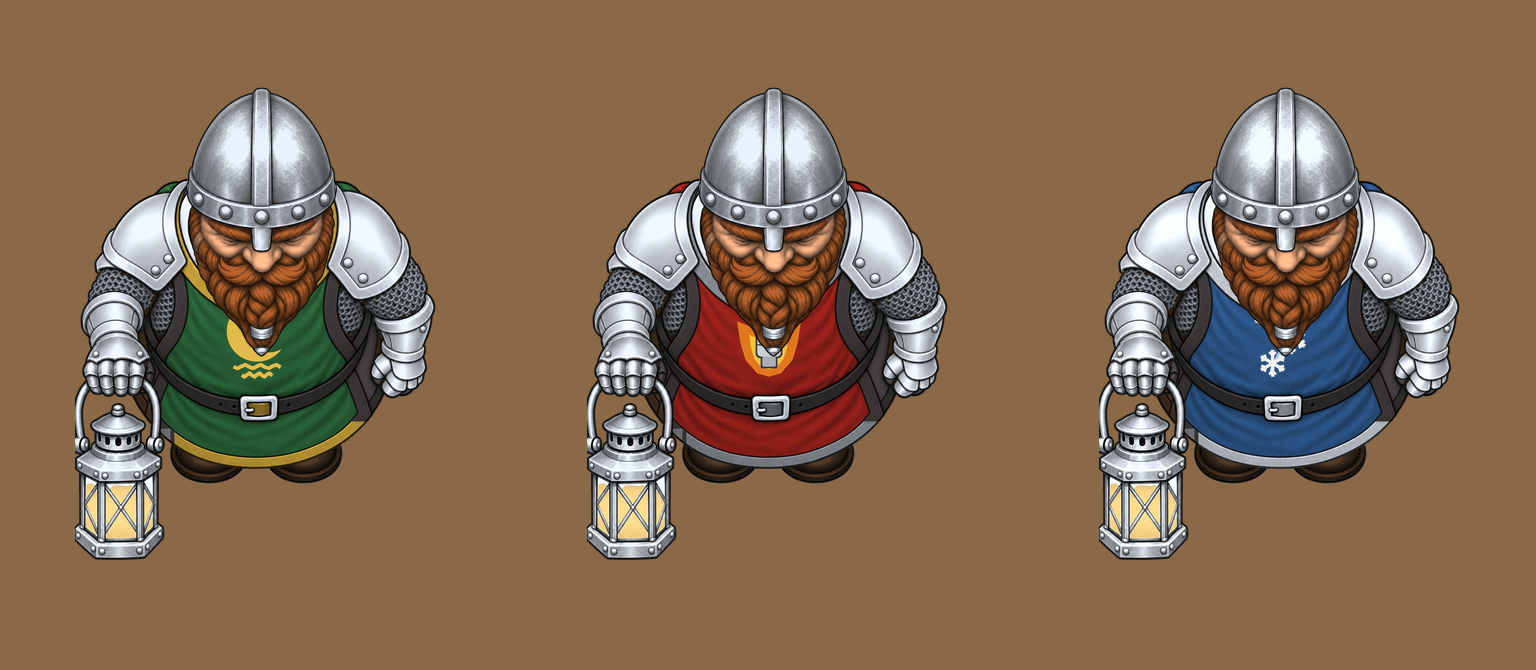
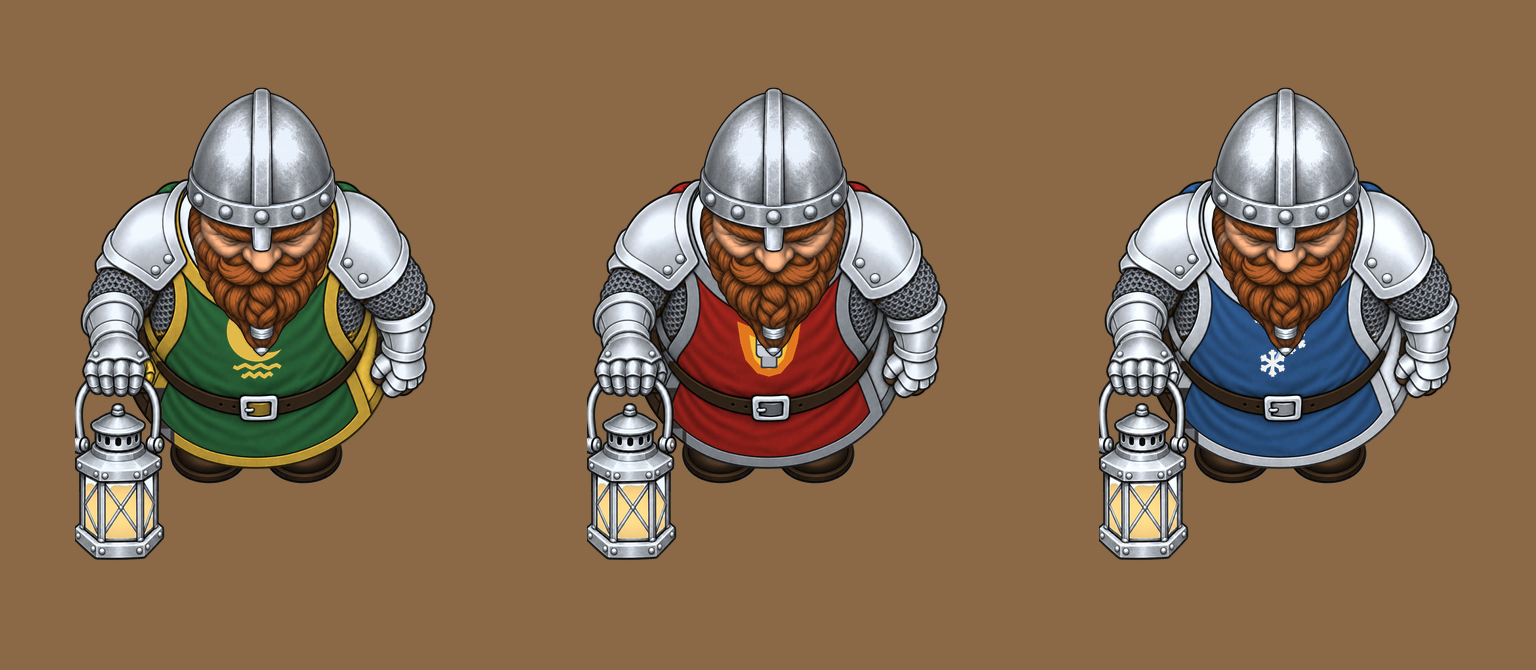
Kit personnages : patrouille de nuit validée (lisières du tabard colorées, ceinture en cuir)
Claude-Session: https://claude.ai/code/session_01F13QTHtRPRAg87rG7j2jCn

diff --git a/kit-personnages/outils/lanterne.py b/kit-personnages/outils/lanterne.py
@@ -101,6 +101,10 @@ def garde_reach(tab,bord,metal='#aeb4bc',glow='#ffd98a',emb=None,H=700,**kw):
         g=ndi.binary_opening((lum>212)&(a[...,3]>60)&(xx<420)&(yy>1150),iterations=3);gc,gk=ndi.label(g);g=np.isin(gc,[i+1 for i,v in enumerate(ndi.sum(g,gc,range(1,gk+1))) if v>420]);lab[ndi.binary_dilation(g,iterations=3)&(lum>190)&(xx<420)&(yy>1150)]=30      # seulement les vitres, pas les rivets
         gy,gx=np.where(lab==30);box=(xx<gx.max()+75)&(yy>gy.min()-330);lab[box&np.isin(lab,(6,15,16,9))&(lum>120)]=4          # la lanterne et le gantelet : métal
         lab[np.isin(lab,(6,16))&(yy>1090)&~box]=9
+        m16=(lab==16)&~box;dk=(ndi.gaussian_filter(lum,1.0)<grd.bodyseg.LT);c16,k16=ndi.label(ndi.binary_erosion(m16&~ndi.binary_dilation(dk,iterations=2),iterations=2));kind16=np.zeros(k16+1,int)
+        for i,sl in enumerate(ndi.find_objects(c16)):
+            h16=sl[0].stop-sl[0].start;w16=sl[1].stop-sl[1].start;kind16[i+1]=6 if (w16>1.3*h16 and sl[0].start>820 and sl[0].stop<1110) else 9;print('16:',sl[1].start,sl[1].stop,sl[0].start,sl[0].stop,kind16[i+1])
+        _,ix=ndi.distance_transform_edt(c16==0,return_indices=True);lab[m16]=kind16[c16[ix[0],ix[1]]][m16]                # la ceinture reste en cuir, les lisières prennent la couleur de bordure
         lb=box&np.isin(lab,(4,30));cb,kb=ndi.label(ndi.binary_dilation(lb,iterations=4));lb=ndi.binary_fill_holes(cb==cb[gy[0],gx[0]])&box&(a[...,3]>60)      # la lanterne et le gantelet, d'un bloc
         sm,sk=ndi.label(np.isin(lab,(5,9,16,6))&ndi.binary_dilation(lb,iterations=22));ssz=ndi.sum(sm>0,sm,range(1,sk+1))
         for i in range(sk):

diff --git a/kit-personnages/LISEZMOI.md b/kit-personnages/LISEZMOI.md
@@ -60,4 +60,4 @@ Une région peut avoir plusieurs gardes. L'Église de Lathandre n'est pas une ga
 - **Bûcheron (validé)** : fermier, pose à la fourche, où tout l'outil est remplacé par la hache de bûcheron (`carte.axe_farmer`), glissée sous les doigts. La hache d'armes du garde (`item_axe.png`) reste disponible en variante.
 - **Lanterne (validée)** : `objets/hand_lantern.png` est un poing fermé sur l'anse d'une lanterne, dessiné seul par GPT (sans bracelet ni manche). `outils/advlant4.py` le pose au bout du bras tendu de la pose « reach » : la main ouverte est retirée d'après ses matières, le haut du poing glisse sous le bracelet, et sous le bord du bracelet le poing et la lanterne sont au premier plan (devant le manteau). Réglage validé : échelle 0,56, la main remplit la largeur de la manche sans dépasser le bracelet. Résultat : `nain/corps/aventurier/body_dwarf_adventurer_reach_lantern.png` (toile plus haute, la lanterne descend sous le cadre habituel), aperçu dans `planches/lanterne.png`. Les essais de greffe d'une main dessinée avec son bracelet ont échoué (jonction difforme) : toujours demander la main SEULE.
 - **Veilleur (validé)** : mage, bras tendu, lanterne en main nue — `nain/corps/mage/body_dwarf_robe_reach_lantern.png`, aperçu `planches/veilleur.png`. Fait par `outils/lanterne.py` (`graft2`, `veilleur`), la méthode à réutiliser pour toute main posée sous un bracelet : le poing prend exactement la largeur du bracelet et se centre dessous ; il remonte jusqu'à remplir l'ouverture ; ordre des couches vêtement < poing et lanterne < bracelet ; les encoches du bord du bracelet sont fermées (sinon la main « traverse » le métal) ; l'ancienne main est retirée avec son trait et le vêtement rebouché. Le poing ne pivote jamais (il s'efface à moitié).
-- **Patrouille de nuit** : `nain/corps/garde/body_dwarf_guard_reach_lantern.png` = l'image COMPLÈTE dessinée par GPT (garde, bras tendu, gantelet et lanterne d'un seul tenant), simplement remise à l'échelle du garde validé (`lanterne.garde_reach`). Son torse diffère un peu du garde validé (gorgerin plus simple, bordure seulement en bas). L'essai de ne garder que le bras sur le torse validé (`garde_reach2`) laissait une coche dans le bras : abandonné. Aperçu `planches/patrouille_de_nuit.png`.
+- **Patrouille de nuit (validée)** : lisières gauche et droite du tabard à la couleur de bordure, ceinture en cuir. `nain/corps/garde/body_dwarf_guard_reach_lantern.png` = l'image COMPLÈTE dessinée par GPT (garde, bras tendu, gantelet et lanterne d'un seul tenant), simplement remise à l'échelle du garde validé (`lanterne.garde_reach`). Son torse diffère un peu du garde validé (gorgerin plus simple, bordure seulement en bas). L'essai de ne garder que le bras sur le torse validé (`garde_reach2`) laissait une coche dans le bras : abandonné. Aperçu `planches/patrouille_de_nuit.png`.
